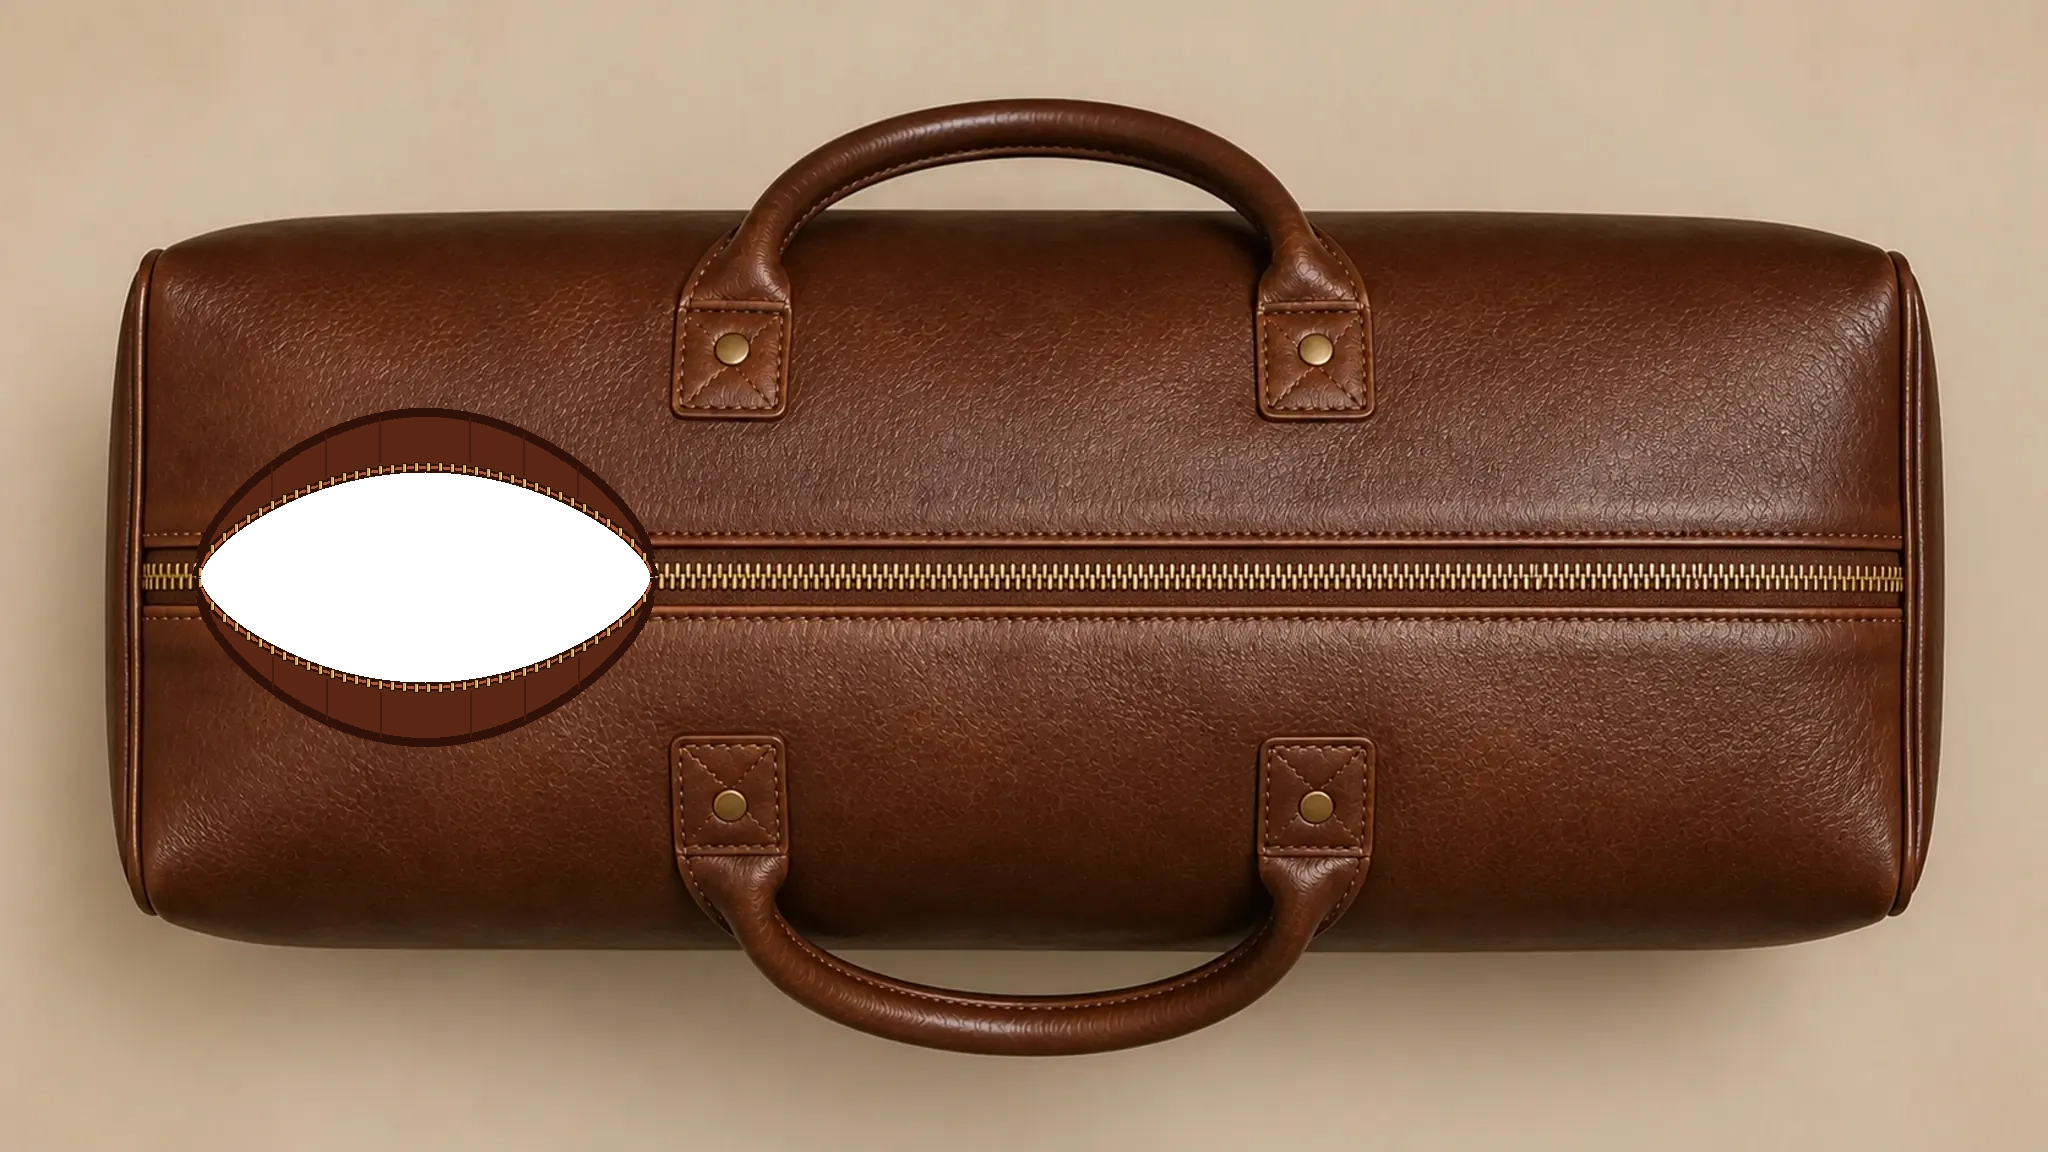
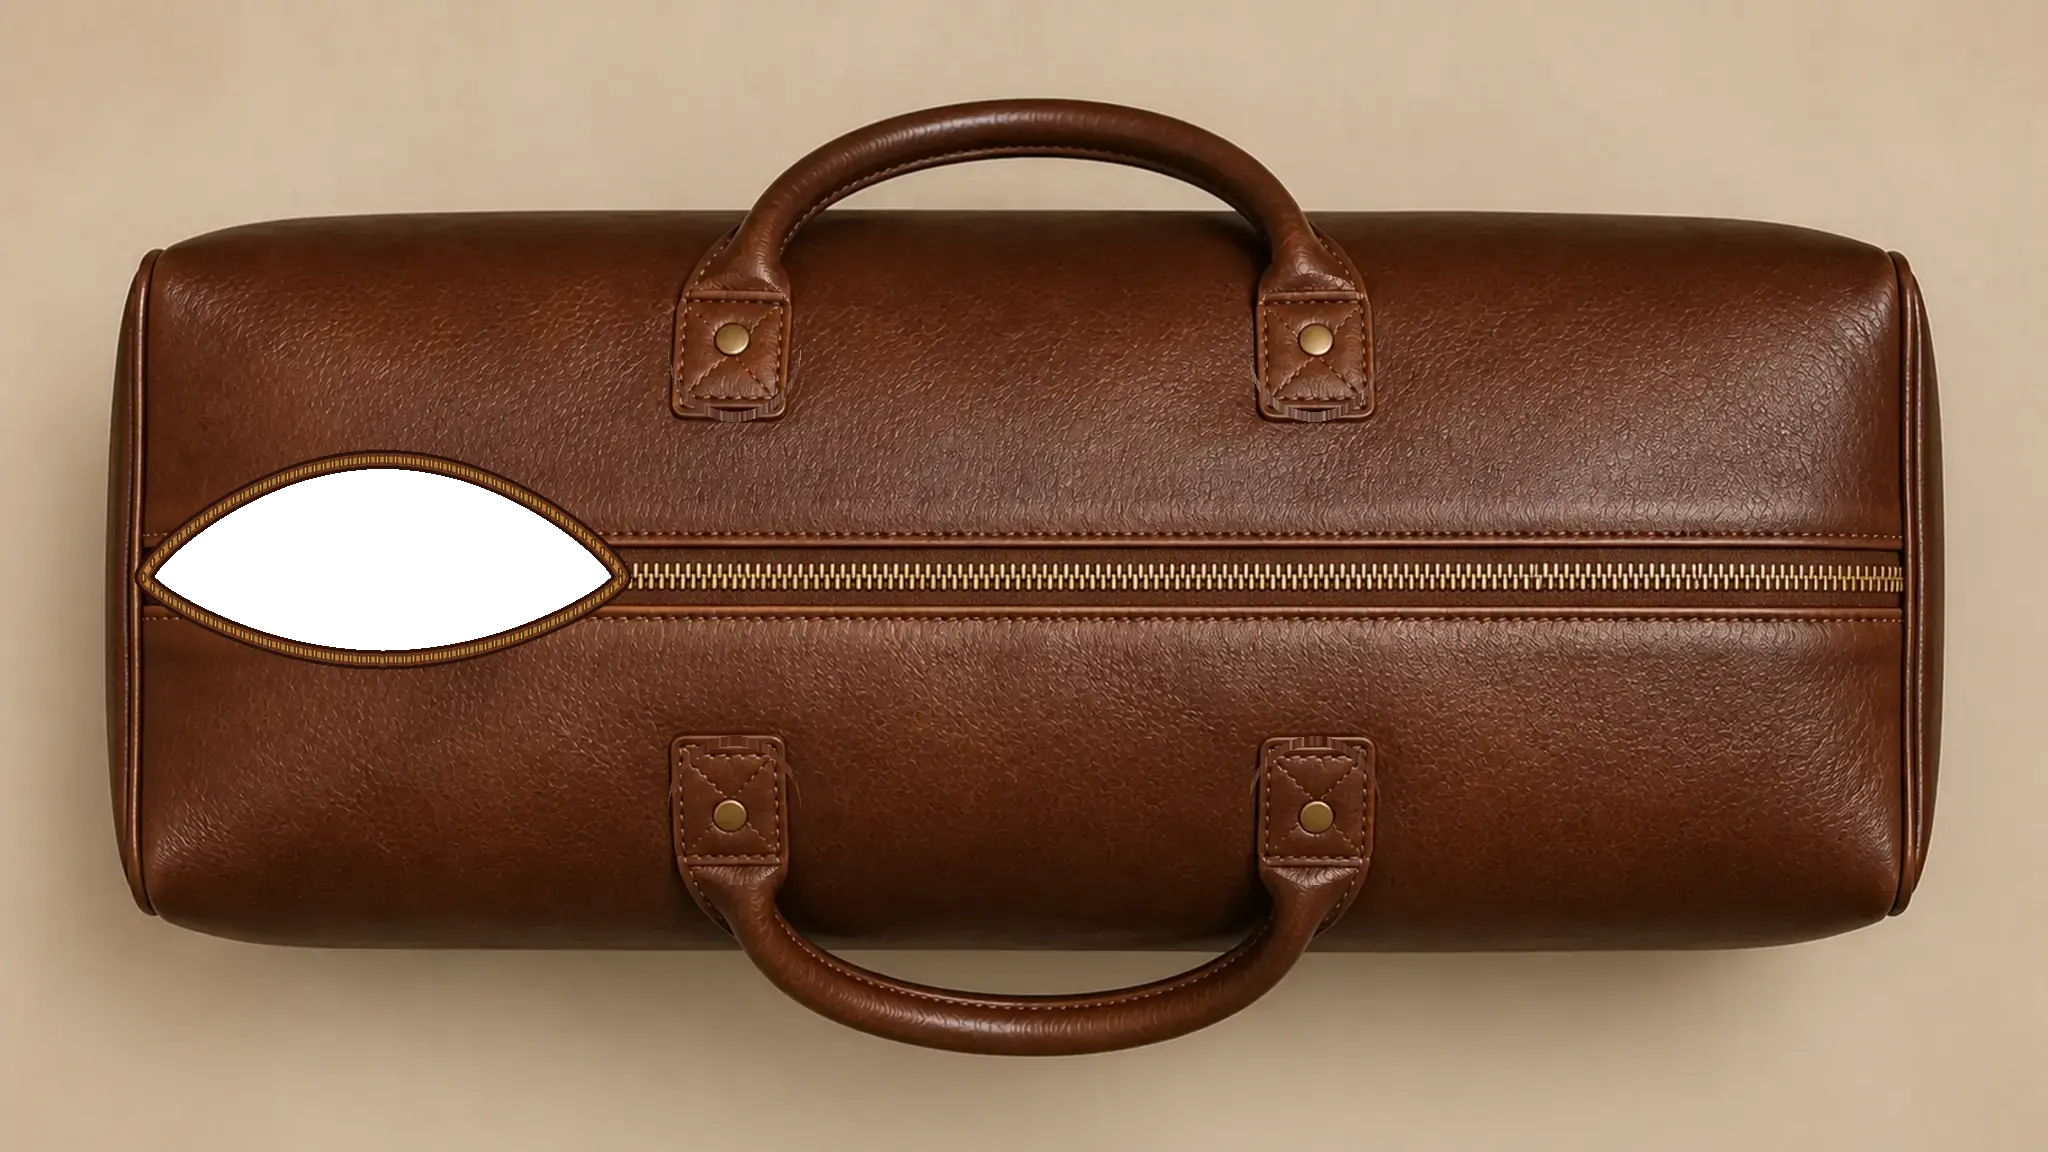
fix(zipper-pull): 包包拉鍊改 12 幀走完全長，齒條寫實、提把跟著皮革走
原本開口是 AI 直接生的對稱杏仁形，兩側只有一條均勻虛線假裝鍊齒，
而且拉鍊頭只走到 x=1250 就停住，整條拉鍊只拉得開一半。

改成全部由閉合幀 bagv3-0 推導：

- 開口上下緣直接沿用底圖那條真拉鍊拆開，黃銅齒、皮革滾邊、縫線都是原圖像素，
  齒距與閉合段量測差 0%（布條剛體位移，沒被拉伸）
- 拉鍊頭 143 → 1901，最後一幀抵達右端擋片，整條可以從左拉到右
- 開口最寬 365px（包身 49.5%），左端收 0、39% 處最寬、往拉鍊頭收尖，上下 6:4 不對稱
- 袋口內壁暗部＋皮革切邊亮線＋端點張力皺褶，補出厚度
- 上下提把座隨各自皮革片反向位移各 36px；開口上緣經過提把座時平滑下凹留 8px，
  四個提把座與透明區的實際輪廓交集皆為 0
- 上下緣齒列平均 alpha 差 0.64%、亮度差 0.40%，下緣不再偏透明
- 透明面積 0 → 9,189 → … → 426,928 單調遞增
- 開口外 120px 與底圖平均像素差 < 1.7/255，背景 < 0.6/255，包身沒有漂移

diff --git a/effects/zipper-pull/effect.js b/effects/zipper-pull/effect.js
@@ -20,13 +20,13 @@ const GARMENTS = {
     contentBox: [452, 60, 1144, 960]
   },
   bag: {
-    // 只用到第 7 幀：素材有 12 幀，但更大的開口會超出包身上下緣、吃掉提把
-    frames: Array.from({ length: 8 }, (_, i) => `assets/frames/bagv3-${i}.webp`),
+    // 12 幀完整走過包包的橫向拉鍊；提把座隨各自皮革片移動。
+    frames: Array.from({ length: 12 }, (_, i) => `assets/frames/bagv3-${i}.webp`),
     sliderUrl: "assets/slider-jeans2.png",
     axis: "h",
     line: 577,
-    apex: [200, 350, 500, 650, 800, 950, 1100, 1250],
-    contentBox: [180, 312, 1120, 530],
+    apex: [143, 303, 463, 622, 782, 942, 1102, 1262, 1422, 1581, 1741, 1901],
+    contentBox: [103, 311, 1838, 464],
     // 開口邊緣是程式化合成的，缺乏皮革厚度；加一圈暗部補深度感（原圖像素）
     rimShadow: 16
   }
